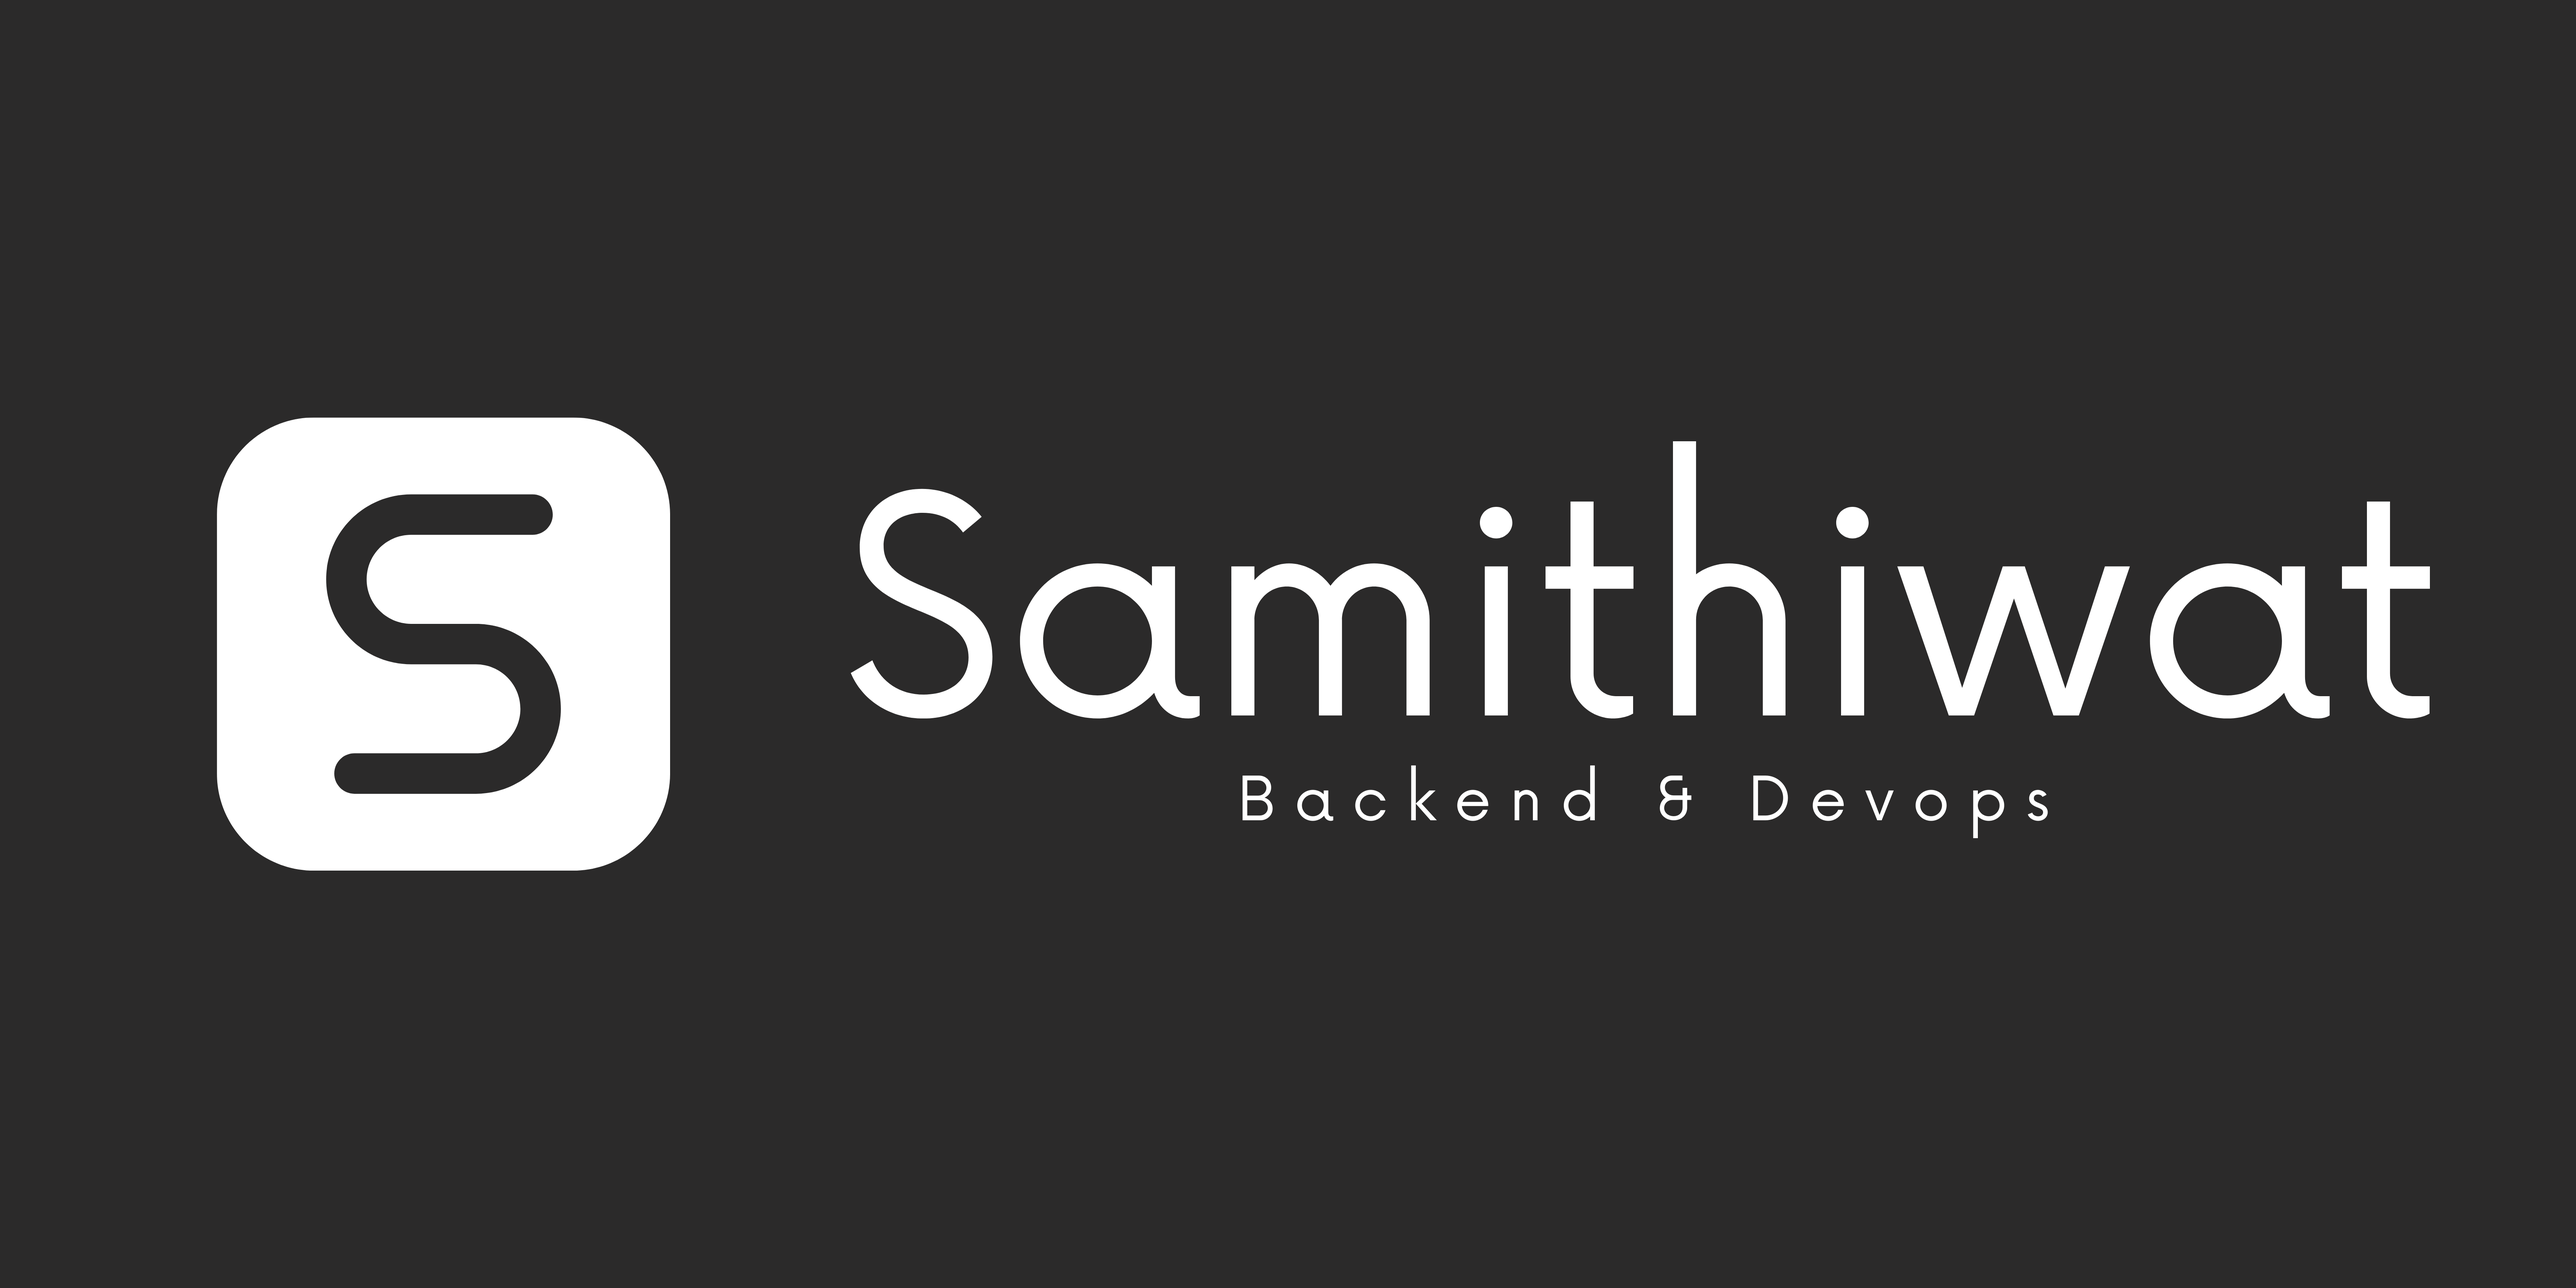
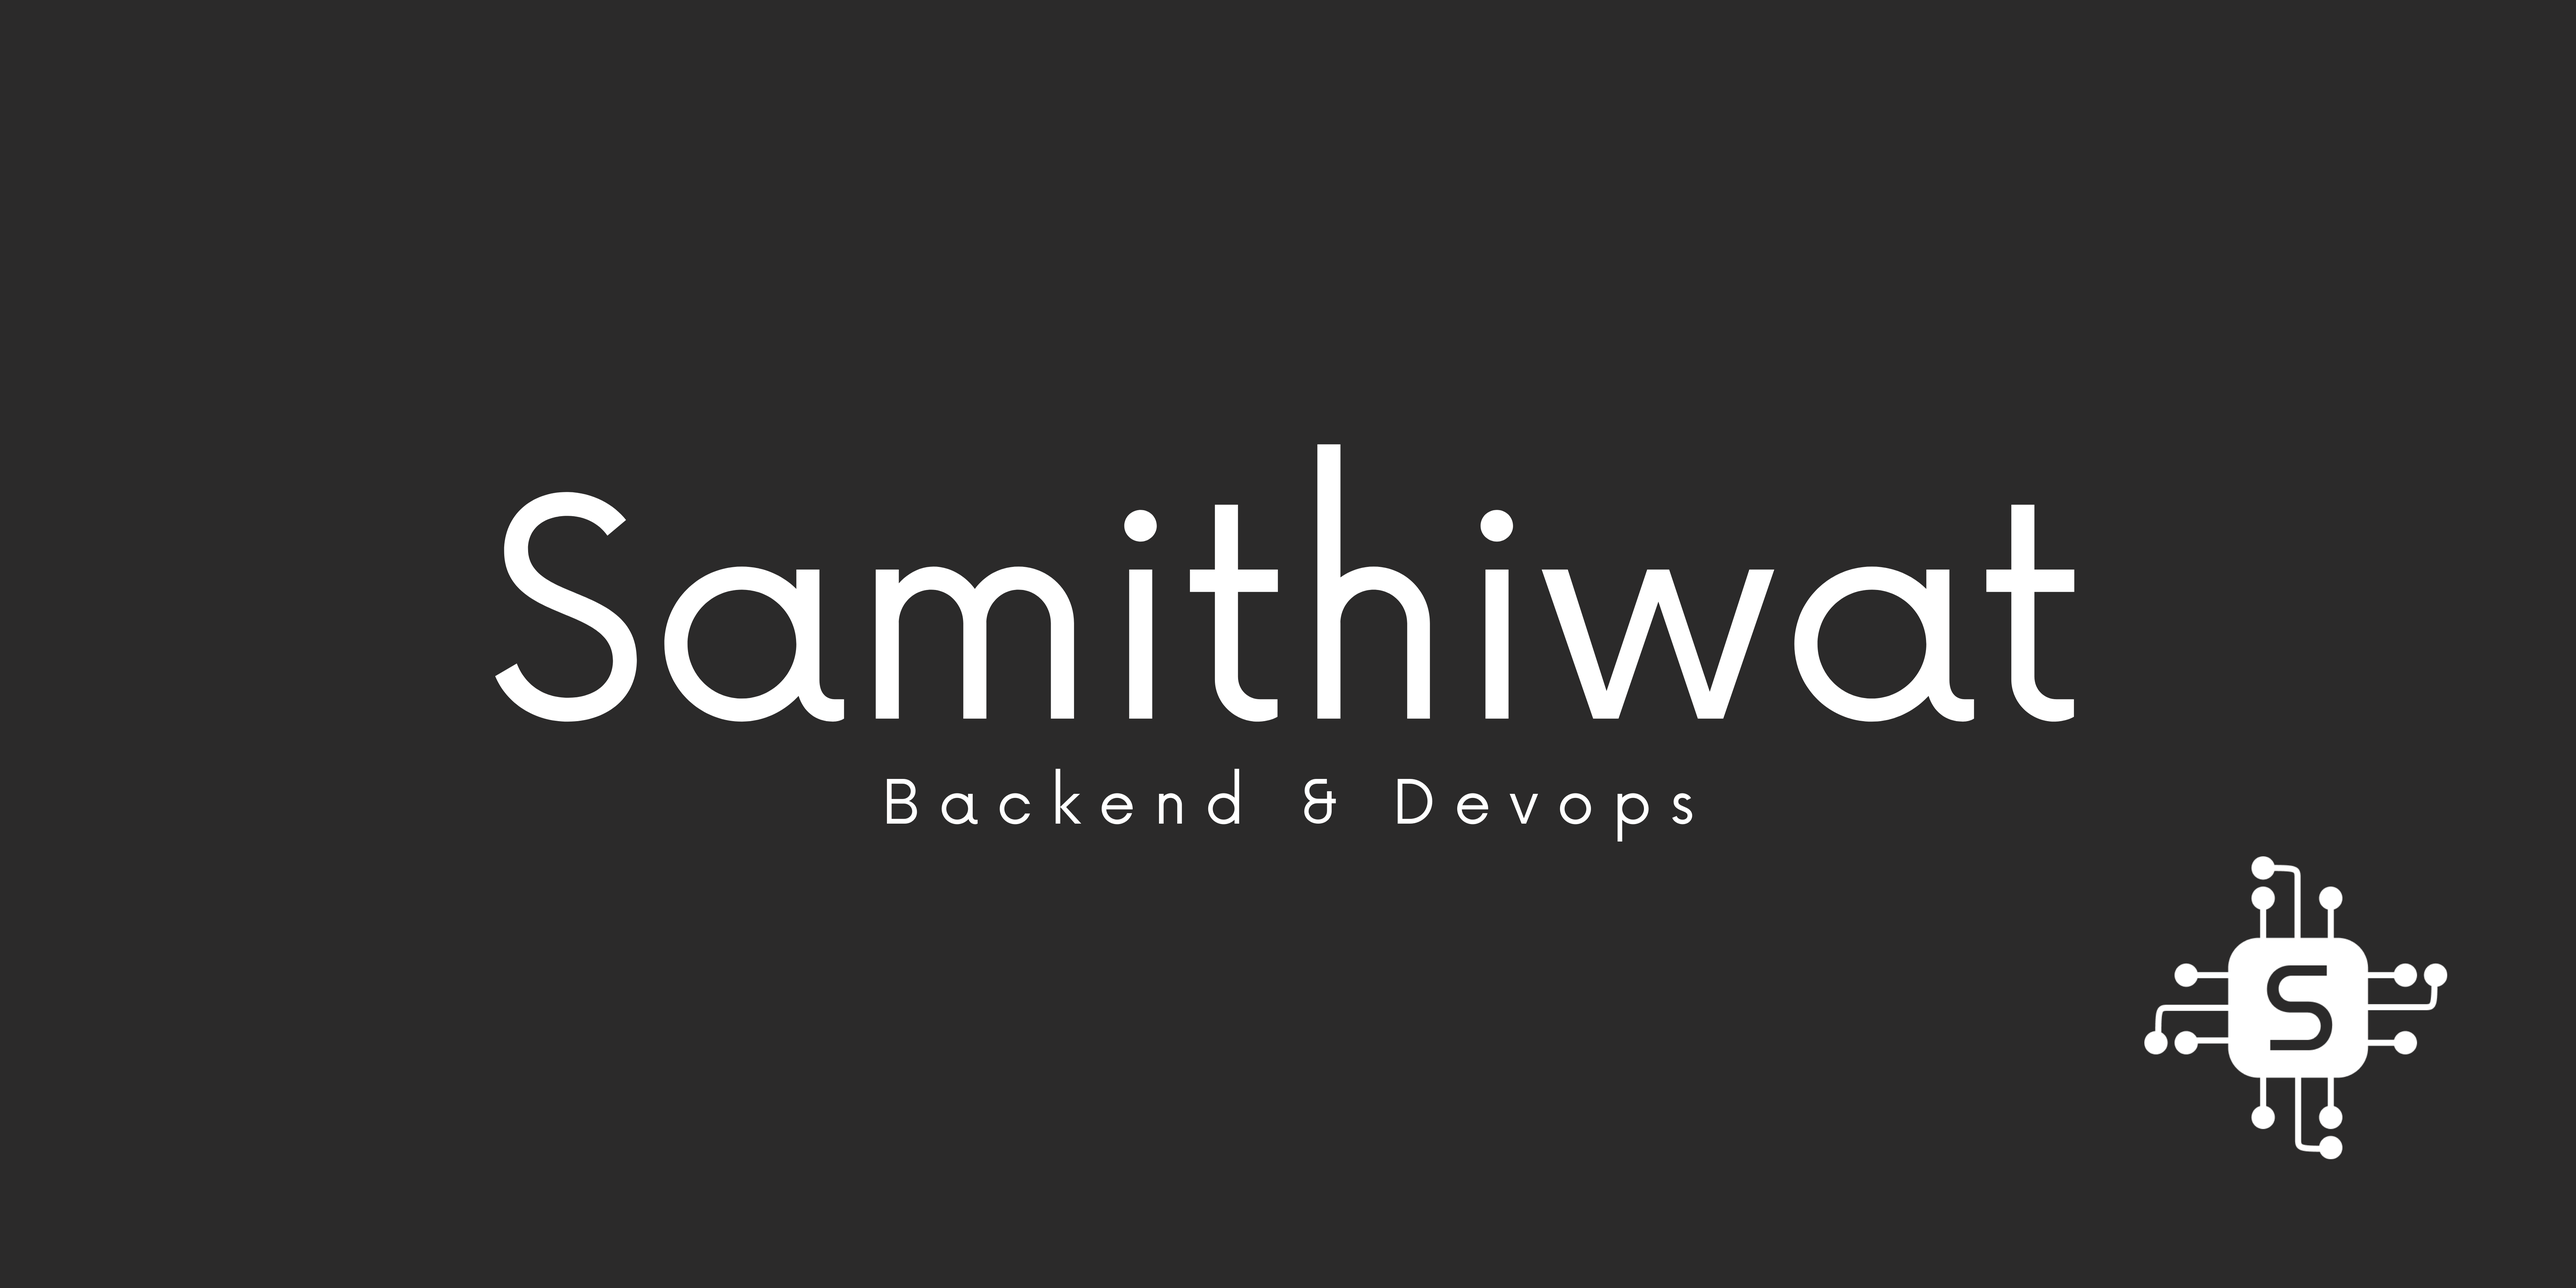
Change header img

diff --git a/README.md b/README.md
@@ -3,7 +3,7 @@
     <img src="https://visitor-badge.glitch.me/badge?page_id=samithiwat.samithiwat">
 </p>
 
-![header](./assets/header.png)
+![header](./assets/header.gif)
 
 <p align="center">
   <a href="https://samithiwat.dev" target="_blank">
